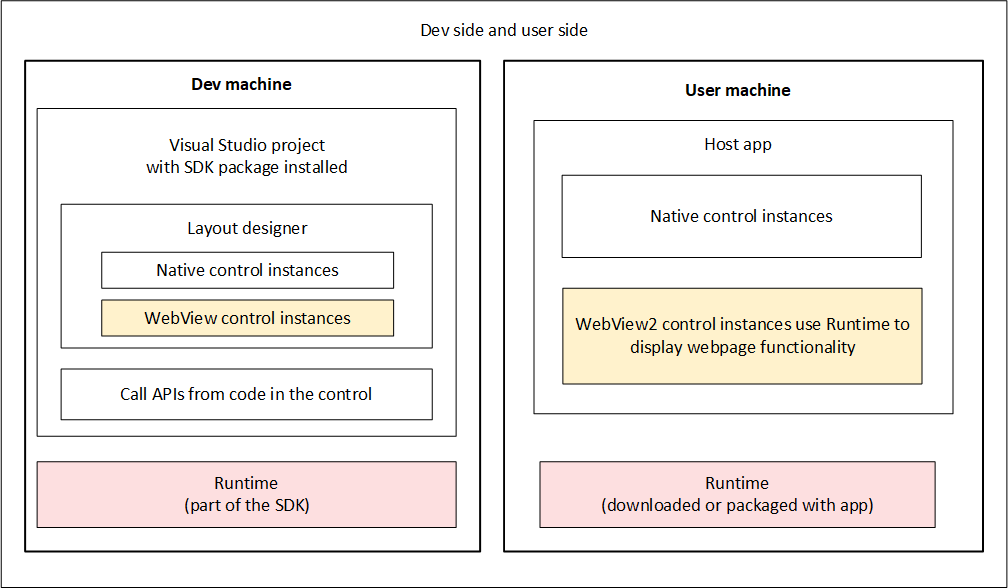
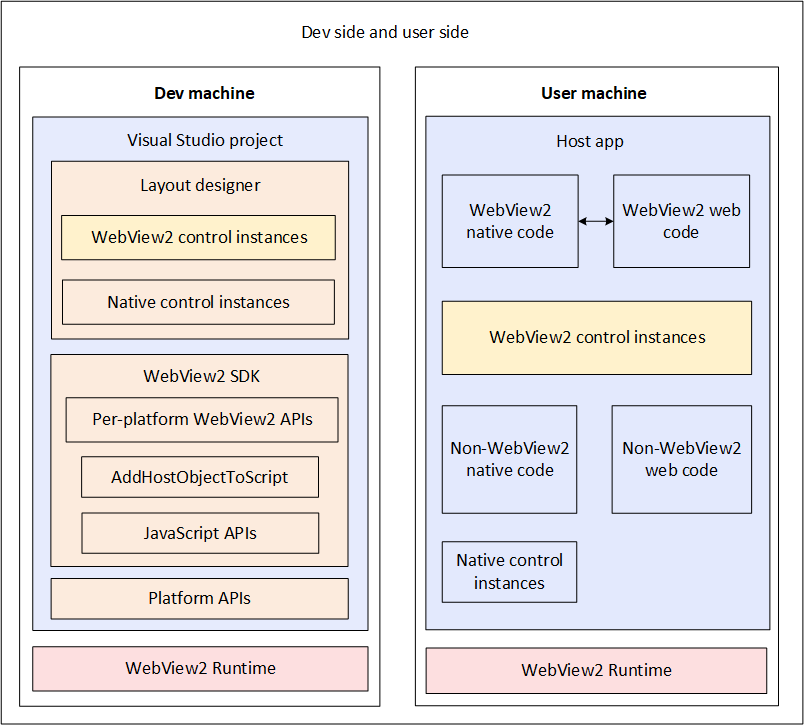
modify diagrams per Comments & todos

diff --git a/microsoft-edge/webview2/concepts/platform-components.md b/microsoft-edge/webview2/concepts/platform-components.md
@@ -72,17 +72,17 @@ The Dev machine for developing a WebView2 app consists of the following componen
 
       * Native control instances - Native controls and panes of your app.
 
-   * The WebView2 SDK.<!-- todo: in diagram, change from "SDK" to "WebView2 SDK" -->
+   * The WebView2 SDK.
 
-      * Per-platform WebView2 APIs, including `CoreWebView2`, `CoreWebView2Controller`, and `CoreWebView2Environment`.  Primarily called by native-side code.<!-- todo: in diagram, change "Platform APIs" to "Per-platform WebView2 APIs" -->
+      * Per-platform WebView2 APIs, including `CoreWebView2`, `CoreWebView2Controller`, and `CoreWebView2Environment`.  Primarily called by native-side code.
 
       * `AddHostObjectToScript` - Enables exposing platform APIs and WebView2 APIs to JavaScript code.  See [Interop of native and web code](../how-to/communicate-btwn-web-native.md)
 
       * [JavaScript APIs](../webview2-api-reference.md#javascript) (WebView2Script package) - Called by web-side code to communicate with the host application.
 
-   * Platform APIs - Non-WebView2 APIs provided by the platform; can be exposed to web-side code.<!-- todo: add to diagram, as a 3rd box within the "Visual Studio project" box -->
+   * Platform APIs - Non-WebView2 APIs provided by the platform; can be exposed to web-side code.
 
-* WebView2 Runtime - A browser component that contains WebView2 APIs.<!-- todo: in diagram, change "Runtime" to "WebView2 Runtime" -->
+* WebView2 Runtime - A browser component that contains WebView2 APIs.
 
 
 <!-- ------------------------------ -->
@@ -127,7 +127,7 @@ On the end-user machine are the following components that are involved in runnin
 
    * Native control instances.
 
-* The WebView2 Runtime.<!-- todo: in diagram, change "Runtime" to "WebView2 Runtime" -->
+* The WebView2 Runtime.
 
 
 <!-- ------------------------------ -->
